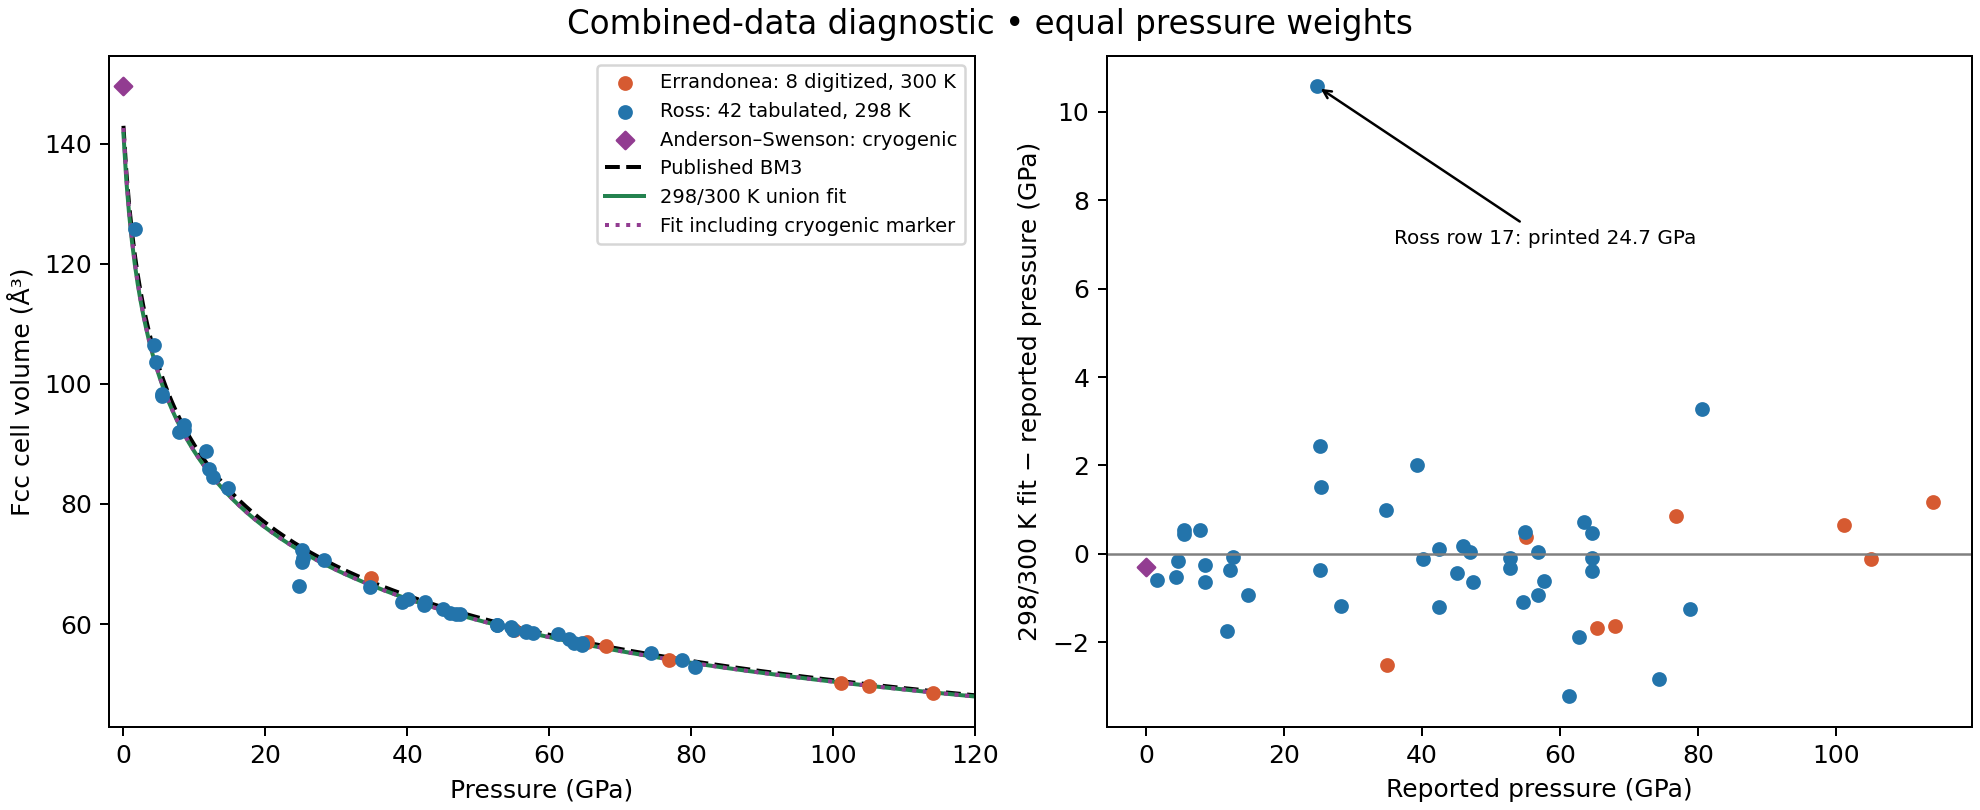
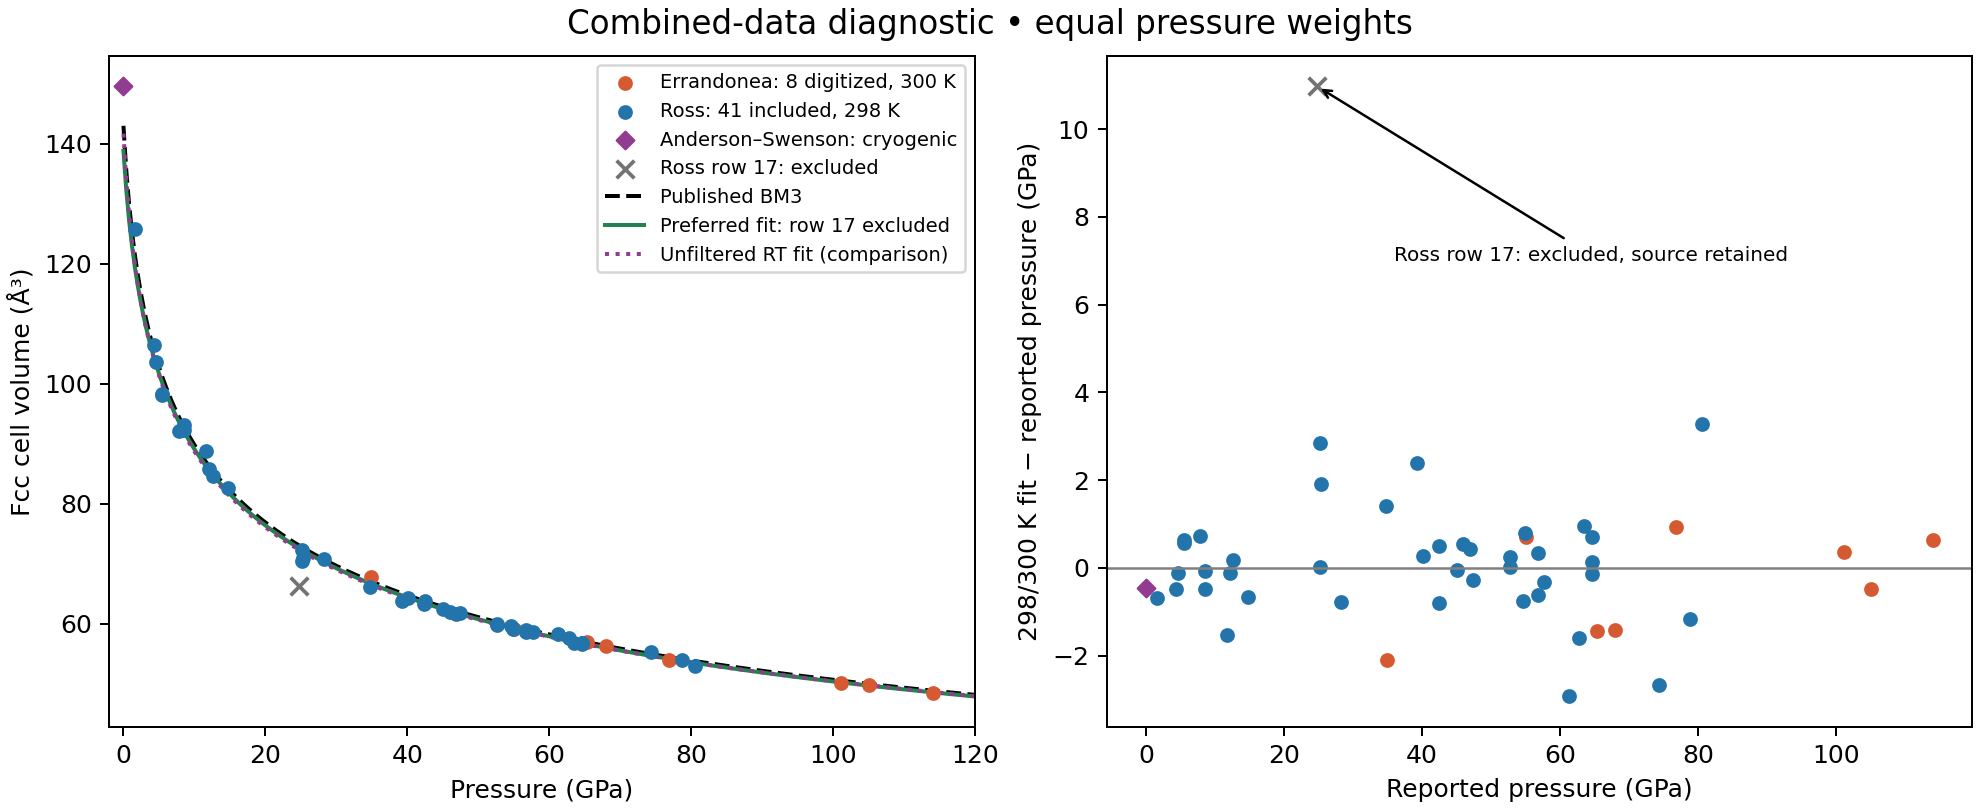
Exclude suspect Ross pressure from preferred argon diagnostic fit

diff --git a/scripts/fit_argon_errandonea_combined.py b/scripts/fit_argon_errandonea_combined.py
@@ -18,6 +18,7 @@ REPORT = ROOT / "docs/data/argon-errandonea-2006-combined-fit.json"
 FIGURE = ROOT / "docs/data/argon-errandonea-2006-combined-fit.png"
 PUBLISHED = np.array([143.0, 6.5, 5.1])
 ERRORS = np.array([11.0, 0.5, 0.3])
+PREFERRED = "room_temperature_without_ross_row17"
 
 
 def observations():
@@ -57,6 +58,18 @@ def observations():
             temperature_k=None,
         )
     )
+    for row in result:
+        suspect = row["source"] == "ross_1986" and row["source_row"] == 17
+        row["included_in_preferred_fit"] = (
+            not suspect and row["temperature_k"] is not None
+        )
+        row["exclusion_reason"] = (
+            "Suspected printed pressure error (247 kbar); adjacent near-identical volume is at 347 kbar. User requested exclusion; no replacement value asserted."
+            if suspect
+            else "Cryogenic marker, not room-temperature data."
+            if row["temperature_k"] is None
+            else None
+        )
     return result
 
 
@@ -117,15 +130,13 @@ def calculate():
         "errandonea_only": [r for r in rows if r["source"] == "errandonea_2006"],
         "room_temperature_union": [r for r in rows if r["temperature_k"] is not None],
         "all_including_cryogenic_marker": rows,
-        "room_temperature_without_ross_row17": [
-            r
-            for r in rows
-            if r["temperature_k"] is not None
-            and not (r["source"] == "ross_1986" and r["source_row"] == 17)
-        ],
+        PREFERRED: [r for r in rows if r["included_in_preferred_fit"]],
     }
     return dict(
         status="diagnostic_combined_fit_not_original_fit_reproduction",
+        preferred_fit=dict(
+            subset=PREFERRED, objective="pressure", excluded_ross_rows=[17]
+        ),
         source_counts={
             s: sum(r["source"] == s for r in rows)
             for s in ("errandonea_2006", "ross_1986", "anderson_swenson_1975")
@@ -134,7 +145,7 @@ def calculate():
         fit_bounds=dict(lower=[80, 0.01, 4], upper=[300, 50, 15]),
         qualifications=[
             "Eight recoverable Errandonea markers, not its full unavailable raw dataset.",
-            "All 42 Ross Table I rows retained, including printed row17 P=24.7 GPa; omission tested separately, never silently corrected.",
+            "All 42 Ross Table I rows archived unchanged. Preferred fit excludes row17 (suspected printed pressure error); unfiltered fits retained as sensitivity checks.",
             "298 K Ross and 300 K Errandonea are pooled without a 2 K thermal correction.",
             "The Anderson–Swenson diamond is cryogenic; including it is a mixed-temperature sensitivity, not a valid 300 K isotherm.",
             "No experimental weighting or covariance reconstructed; equal-pressure and equal-volume objectives compared.",
@@ -158,29 +169,49 @@ def plot(report):
 
     fig, axes = plt.subplots(1, 2, figsize=(11, 4.5), layout="constrained")
     rows = report["observations"]
-    rt = list(
+    rt = list(report["fits"][PREFERRED]["pressure"]["parameters"].values())
+    unfiltered = list(
         report["fits"]["room_temperature_union"]["pressure"]["parameters"].values()
-    )
-    mixed = list(
-        report["fits"]["all_including_cryogenic_marker"]["pressure"][
-            "parameters"
-        ].values()
     )
     for source, label, color, marker in [
         ("errandonea_2006", "Errandonea: 8 digitized, 300 K", "#d65a31", "o"),
-        ("ross_1986", "Ross: 42 tabulated, 298 K", "#2374ab", "o"),
+        ("ross_1986", "Ross: 41 included, 298 K", "#2374ab", "o"),
         ("anderson_swenson_1975", "Anderson–Swenson: cryogenic", "#923c91", "D"),
     ]:
-        selected = [r for r in rows if r["source"] == source]
+        selected = [
+            r
+            for r in rows
+            if r["source"] == source
+            and not (source == "ross_1986" and r["source_row"] == 17)
+        ]
         p = np.array([r["pressure_gpa"] for r in selected])
         v = np.array([r["volume_a3"] for r in selected])
         axes[0].scatter(p, v, s=24, color=color, marker=marker, label=label, zorder=3)
         axes[1].scatter(p, bm3(v, *rt) - p, s=24, color=color, marker=marker)
+    excluded = next(
+        r for r in rows if r["source"] == "ross_1986" and r["source_row"] == 17
+    )
+    axes[0].scatter(
+        excluded["pressure_gpa"],
+        excluded["volume_a3"],
+        s=50,
+        color="0.45",
+        marker="x",
+        label="Ross row 17: excluded",
+        zorder=4,
+    )
+    axes[1].scatter(
+        excluded["pressure_gpa"],
+        bm3(excluded["volume_a3"], *rt) - excluded["pressure_gpa"],
+        s=50,
+        color="0.45",
+        marker="x",
+    )
     p = np.linspace(0, 120, 301)
     for pars, label, style, color in [
         (PUBLISHED, "Published BM3", "--", "black"),
-        (rt, "298/300 K union fit", "-", "#24824f"),
-        (mixed, "Fit including cryogenic marker", ":", "#923c91"),
+        (rt, "Preferred fit: row 17 excluded", "-", "#24824f"),
+        (unfiltered, "Unfiltered RT fit (comparison)", ":", "#923c91"),
     ]:
         axes[0].plot(p, inverse(p, pars), style, color=color, lw=1.6, label=label)
     axes[0].set(xlabel="Pressure (GPa)", ylabel="Fcc cell volume (Å³)", xlim=(-2, 120))
@@ -191,7 +222,7 @@ def plot(report):
         ylabel="298/300 K fit − reported pressure (GPa)",
     )
     axes[1].annotate(
-        "Ross row 17: printed 24.7 GPa",
+        "Ross row 17: excluded, source retained",
         xy=(24.7, float(bm3(66.28871956, *rt) - 24.7)),
         xytext=(36, 7),
         arrowprops=dict(arrowstyle="->"),

diff --git a/tests/test_argon_errandonea_combined.py b/tests/test_argon_errandonea_combined.py
@@ -29,6 +29,13 @@ def test_combined_source_selection_and_units():
     assert {r["temperature_k"] for r in rows if r["source"] == "ross_1986"} == {298}
     assert rows[-1]["temperature_k"] is None
     assert rows[-1]["source"] == "anderson_swenson_1975"
+    assert sum(r["included_in_preferred_fit"] for r in rows) == 49
+    suspect = next(
+        r for r in rows if r["source"] == "ross_1986" and r["source_row"] == 17
+    )
+    assert suspect["pressure_gpa"] == 24.7
+    assert not suspect["included_in_preferred_fit"]
+    assert "Suspected printed pressure error" in suspect["exclusion_reason"]
 
 
 def test_fit_sensitivity_and_inversion():
@@ -36,6 +43,7 @@ def test_fit_sensitivity_and_inversion():
     assert bm3(inverse(pressure, [143, 6.5, 5.1])) == pytest.approx(pressure, abs=1e-9)
     report = calculate()
     fits = report["fits"]
+    assert report["preferred_fit"]["subset"] == "room_temperature_without_ross_row17"
     assert fits["room_temperature_union"]["pressure"]["count"] == 50
     assert fits["room_temperature_without_ross_row17"]["pressure"]["count"] == 49
     assert fits["all_including_cryogenic_marker"]["pressure"]["count"] == 51

diff --git a/docs/literature-reproductions/argon-errandonea-2006.md b/docs/literature-reproductions/argon-errandonea-2006.md
@@ -158,3 +158,16 @@ sensitivity to the suspicious Ross row prevent a unique inference.
 No source pressure was corrected, no catalog parameters were replaced, and
 the original fit remains unresolved. The safe result is a clearly labeled
 **diagnostic combined fit**, not a newly validated 300 K EOS.
+
+Following the user's source-quality decision, the **preferred diagnostic now
+excludes Ross Table I row 17** (247(13) kbar, 4.047 Å, 9.98 cm³/mol).
+Its pressure is suspected to be a printing error because the neighboring
+near-identical volume is reported at 347 kbar. The intended pressure is not
+established: no correction to 34.7 or 42.7 GPa is applied. The archived source
+row remains unchanged, and the report marks it excluded with this reason.
+The unfiltered fits above remain explicit sensitivity comparisons.
+
+The preferred 49-point, equal-pressure-weight fit therefore gives
+**V0=138.833 Å³/cell, K0=7.3277 GPa, K0'=5.0186**, with pressure RMS
+**1.203 GPa**. The cryogenic diamond remains excluded as well. These are
+diagnostic coefficients; the published catalog equation is unchanged.
